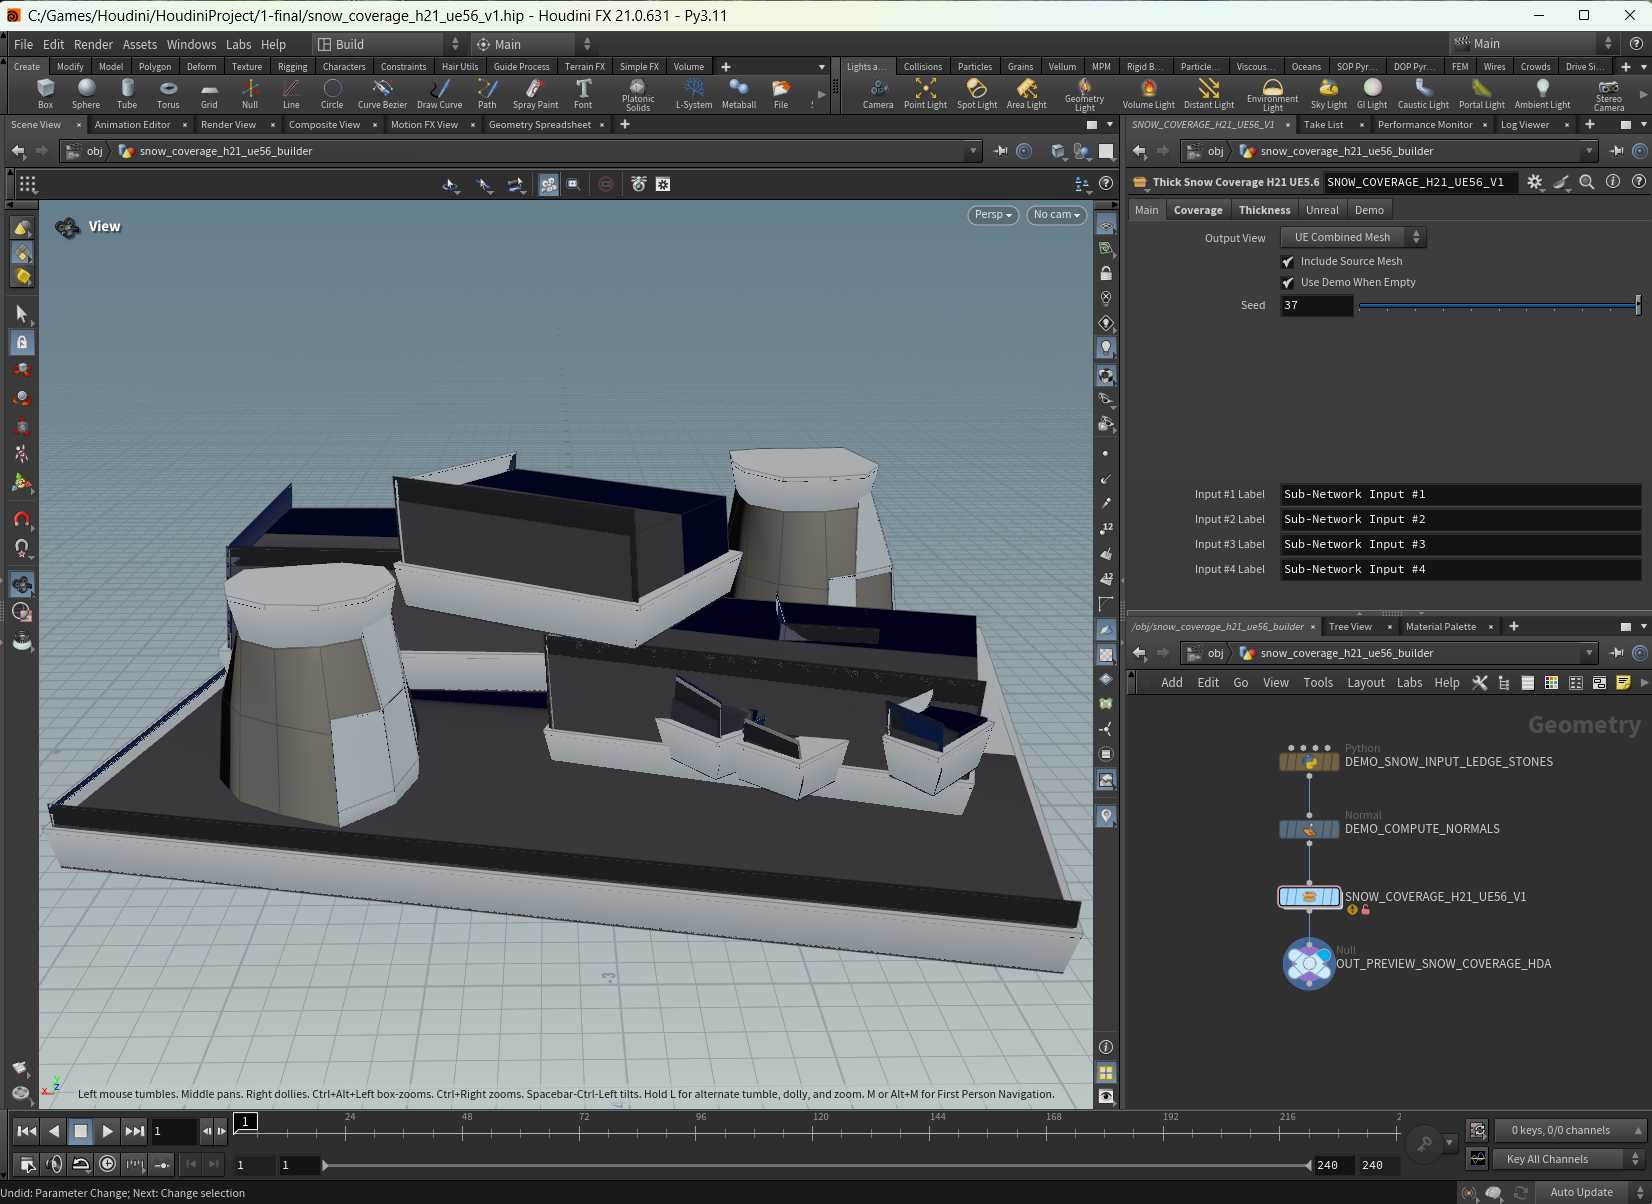
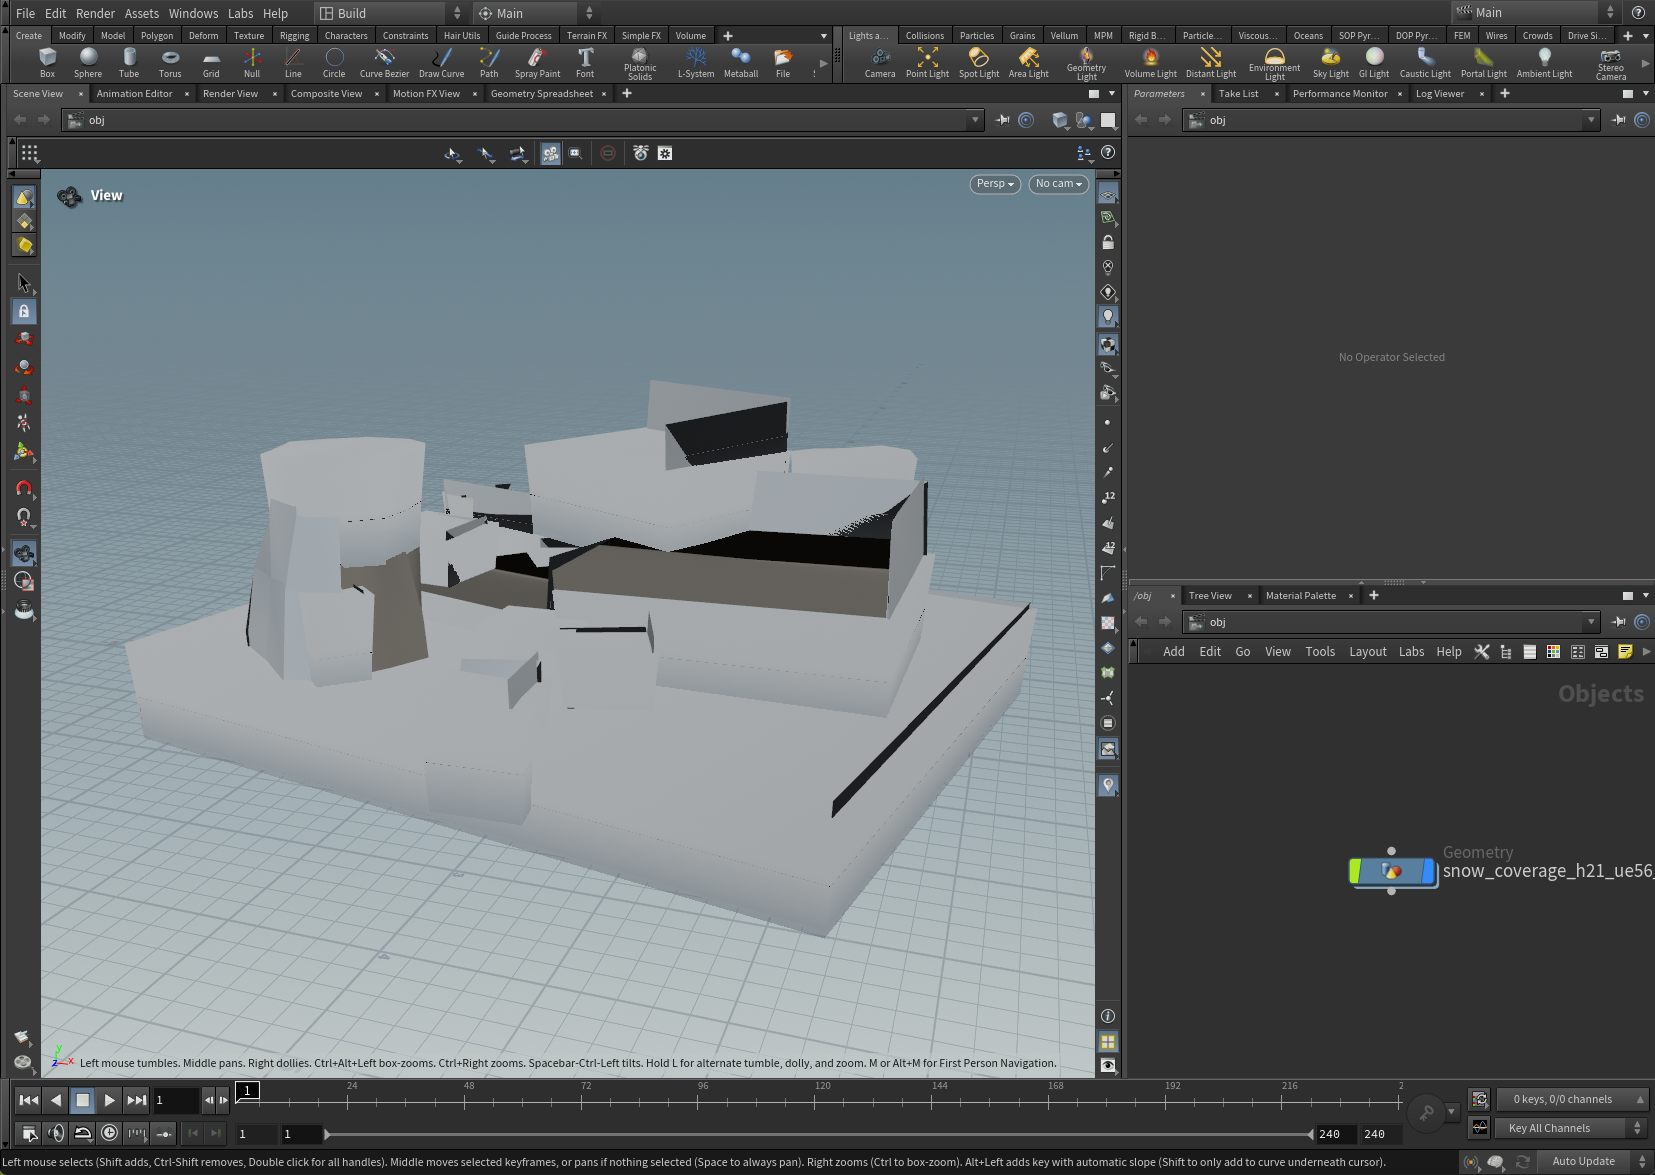
Update snow coverage v2 assets

diff --git a/src/project-data.js b/src/project-data.js
@@ -400,7 +400,7 @@ export const projects = [
     category: "Surface Treatment",
     image: "/assets/houdini/portfolio/snow-coverage.png",
     video: "/assets/houdini/videos/snow-coverage.mp4",
-    noteHref: "/assets/houdini/notes/snow_coverage_h21_ue56_v1.md",
+    noteHref: "/assets/houdini/notes/snow_coverage_h21_ue56_v2.md",
     visual: {
       label: "SURFACE COVERAGE",
       hero: "THICK SNOW / EDGE LIP",

diff --git a/public/assets/houdini/notes/snow_coverage_h21_ue56_v2.md b/public/assets/houdini/notes/snow_coverage_h21_ue56_v2.md
@@ -1,0 +1,168 @@
+# Snow Coverage H21 / UE5.6 V2
+
+## 1. 资产概览
+
+这是一个面向 Houdini 21 / UE5.6 Houdini Engine 流程的厚积雪覆盖 HDA。它读取输入 mesh，依据面法线朝向、坡度、边缘、风向和高度计算积雪覆盖 Mask，再生成具有体积感的多环积雪几何。
+
+V2 相比 V1 的主要变化是：主积雪厚度提高，并将雪层剖面拆成下层壳体、圆润肩部、顶部雪盖和边缘翻边。`Snow Thickness`、`Base Snow Depth`、`Peak Height`、`Edge Lip Height`、`Shell Depth` 和 `Profile Roundness` 可以分别控制积雪的体积和边缘形态。
+
+该场景同时保留原始输入 mesh，并将雪层写入独立的 `snow_*` 面属性和 UE 材质路径。它是静态积雪生成器，不负责 UE 中人物实时踩踏或动态脚印。
+
+## 2. 文件与要求
+
+- 场景：[snow_coverage_h21_ue56_v2.hip](snow_coverage_h21_ue56_v2.hip)
+- Houdini：`21.0.596` 生成并验证；本目录其他文档中的 `21.0.631` 是另一轮检查环境，不应混同
+- 外层网络：`/obj/snow_coverage_h21_ue56_builder`
+- HDA 节点：`/obj/snow_coverage_h21_ue56_builder/SNOW_COVERAGE_H21_UE56_V2`
+- HDA 类型：`billd::snow_coverage_h21_ue56::2.0`
+- 主输出节点：`/obj/snow_coverage_h21_ue56_builder/OUT_PREVIEW_SNOW_COVERAGE_HDA`
+- 预览图：[snow_coverage_h21_ue56_v2_preview.png](#作品集展示建议)
+- 详细验证：[snow_coverage_h21_ue56_v2_verification.json](#验证记录)
+- 外部 HDA：使用项目内版本管理的 v2 HDA；公开作品集不暴露本地安装路径。
+- UE 工程集成：可将 v2 HDA 安装到 UE5.6 Houdini Engine 可见目录，再创建 Houdini Asset Actor。
+
+HDA 定义曾随当前场景保存为 Embedded 内容。独立打开该 HIP 时，如果 Houdini 优先读取到不完整的 Embedded 定义，可能出现 `incomplete asset definition` 警告；独立 Houdini Engine 或 UE5.6 使用时，应安装上面列出的完整外部 HDA。
+
+## 3. 快速使用
+
+1. 使用 Houdini 21 打开 `snow_coverage_h21_ue56_v2.hip`。
+2. 选中 `/obj/snow_coverage_h21_ue56_builder/SNOW_COVERAGE_H21_UE56_V2`。
+3. 将真实 mesh 接入输入 0；没有输入时，场景会使用 `DEMO_SNOW_INPUT_LEDGE_STONES` 作为演示几何。
+4. 先调整 `Snow Thickness`、`Base Snow Depth` 和 `Peak Height`，再用 `Edge Lip Height`、`Shell Depth` 和 `Profile Roundness` 微调边缘体积。
+5. 在 `UE Snow Material` 中填写 UE 项目材质路径，例如 `/Game/Materials/M_Snow.M_Snow`。
+6. 使用 `Output View` 查看完整输出、仅雪层、覆盖调试、原始 mesh 或雪点输出。
+7. 在 UE5.6 中使用时，将外部 v2 HDA 安装到 Houdini Engine 可见的 HDA 路径，再创建 Houdini Asset Actor。
+
+## 4. 主要参数
+
+### 输入与覆盖
+
+- `output_view`：选择完整 mesh、仅雪层、覆盖调试、原始 mesh 或雪点输出。
+- `include_source_mesh`：是否在完整输出中保留原始输入 mesh，当前默认开启。
+- `use_demo_when_empty`：输入为空时是否使用演示几何，当前默认开启。
+- `seed`：覆盖噪声和雪层起伏的随机种子，当前为 `37`。
+- `cover_intensity` / `cover_threshold`：覆盖强度和生成阈值，当前主实例使用 `1.68 / 0.22`。
+- `slope_start` / `slope_softness` / `upward_bias`：控制朝上表面的积雪倾向。
+- `edge_buildup` / `side_crust_strength`：控制边缘堆积和侧面结壳。
+- `wind_drift_strength` / `wind_direction`：控制风向造成的积雪偏移。
+- `height_bias`：根据世界高度增加或减少积雪高度。
+
+### 厚度与剖面
+
+- `snow_thickness`：主厚度缩放项，V2 默认值为 `0.28`。
+- `base_snow_depth`：覆盖区域的基础雪层厚度，默认 `0.18`。
+- `peak_height`：顶部隆起高度，默认 `0.14`。
+- `edge_lip_height`：边缘翻边和堆积的额外高度，默认 `0.10`。
+- `shell_depth`：雪层边缘向原始表面下方形成的壳体深度，默认 `0.06`。
+- `profile_roundness`：肩部从下层壳体过渡到顶部的圆润程度，默认 `0.68`。
+- `surface_offset`：雪层与输入表面的基础间隙。
+- `lump_amplitude` / `lump_frequency`：大尺度雪堆起伏。
+- `powder_noise_frequency`：细颗粒粉雪噪声频率。
+- `overhang_amount`：边缘向外翻出的距离。
+- `min_patch_area`：过滤过小覆盖面的阈值。
+- `spawn_point_scale`：雪点输出的 `pscale` 大小。
+
+### UE 材质与演示
+
+- `snow_unreal_material`：雪层的 `unreal_material` 和 `shop_materialpath`，默认 `/Game/Materials/M_ProceduralSnow.M_ProceduralSnow`。
+- `assign_base_material` / `base_unreal_material`：是否给保留的源 mesh 写入基础材质路径。
+- `snow_clump_instance_path`：可选雪团 instancing 资源路径。
+- `snow_color` / `packed_snow_color`：松软雪和压实雪的顶点颜色。
+- `demo_seed` / `demo_scale`：无输入时的演示岩石场景随机种子和尺寸。
+
+## 5. 节点逻辑
+
+```text
+DEMO_SNOW_INPUT_LEDGE_STONES -> DEMO_COMPUTE_NORMALS
+真实输入 0 ------------------------/
+                    -> SNOW_COVERAGE_H21_UE56_V2 -> OUT_PREVIEW_SNOW_COVERAGE_HDA
+```
+
+HDA 内部的主要处理顺序为：
+
+```text
+IN_SOURCE_MESH_FROM_UE_OR_HOUDINI
+  -> CLEAN_TINY_GAPS_FOR_EDGE_MASK
+  -> COMPUTE_SOURCE_NORMALS
+  -> PY_BUILD_THICK_SNOW_COVERAGE
+  -> OUTPUT
+```
+
+`PY_BUILD_THICK_SNOW_COVERAGE` 先根据法线、坡度、边缘、风向和高度生成 `snow_mask`，再对每个满足覆盖条件的面生成三组环线：
+
+1. 下层壳体环：保持接近原始表面，并由 `shell_depth` 控制边缘下压。
+2. 肩部过渡环：由 `profile_roundness` 控制向顶部雪盖的过渡位置。
+3. 顶部雪盖环：由主厚度、基础厚度、隆起高度和边缘翻边共同决定。
+
+侧面由下层环和肩部环、肩部环和顶部环分别生成，因此输出面名会区分 `snow_cover_lower_side` 与 `snow_cover_upper_side`。
+
+## 6. 输出
+
+| 输出 | 用途 | 当前第 1 帧统计 |
+|---|---|---:|
+| `OUT_PREVIEW_SNOW_COVERAGE_HDA` | 原始 mesh、厚积雪几何和 UE 属性的统一预览 | 970 points / 723 prims / 2,931 vertices |
+
+当前输出包围盒约为 `(-3.380, -0.054, -2.992)` 到 `(3.390, 2.570, 2.989)`。
+
+面名统计如下：
+
+- `source_mesh`：130 prims
+- `snow_cover`：63 prims
+- `snow_cover_lower_side`：265 prims
+- `snow_cover_upper_side`：265 prims
+
+当前材质路径统计如下：
+
+- `/Game/Materials/M_ProceduralSnow.M_ProceduralSnow`：593 prims
+- `/Game/Materials/M_Rock_Cold.M_Rock_Cold`：130 prims
+
+## 7. 属性
+
+- 点属性：`P`、`N`、`Cd`、`Alpha`、`pscale`、`snow_mask`、`snow_thickness`、`unreal_instance`
+- 面属性：`name`、`module`、`snow_mask`、`snow_thickness`、`snow_roughness`、`shop_materialpath`、`unreal_material`
+- `name` 用于区分 `source_mesh`、`snow_cover`、`snow_cover_lower_side` 和 `snow_cover_upper_side`。
+- `snow_mask` 可用于 UE 材质中区分积雪覆盖程度。
+- `snow_thickness` 可用于 UE 材质中的雪层厚度、颜色或压实效果控制。
+- `unreal_material` 和 `shop_materialpath` 保存 UE 项目材质路径；它们不代表材质资源已经被嵌入 HIP。
+
+## 8. 动画与时间轴
+
+- 场景范围：`1-240` 帧，`24 fps`。
+- 当前保存帧：`1`。
+- 该工具是静态积雪覆盖生成器，不依赖时间轴驱动生长或动画。
+- 修改覆盖参数、厚度参数或 `seed` 后重新 cook 即可得到新的雪层。
+- 当前版本不包含 UE 人物实时脚印、动态压雪或 Render Target/RVT 脚印更新逻辑。
+
+## 9. 材质与 UE5.6
+
+- 默认雪材质：`/Game/Materials/M_ProceduralSnow.M_ProceduralSnow`
+- 默认源 mesh 材质：`/Game/Materials/M_Rock_Cold.M_Rock_Cold`
+- UE 使用时可将 `snow_unreal_material` 替换为项目已有雪材质，或替换为其他覆盖类材质。
+- 如果保留源 mesh，开启 `assign_base_material` 并填写 `base_unreal_material`，即可同时写入基础材质路径。
+- UE5.6 Houdini Engine 使用时，应安装项目内版本管理的 v2 HDA，并按项目规范配置材质路径。
+- 该 HDA 输出的是静态几何和属性；人物动态脚印建议在 UE 中使用材质、RVT、Render Target 或蓝图事件另行处理。
+
+## 10. 验证
+
+- 使用 Houdini `21.0.596` 生成并保存 v2 HIP、HDA、预览和 JSON 验证报告。
+- `snow_coverage_h21_ue56_v2.hip` 可以加载，当前输出几何可读取，外层网络无 node error。
+- 生成脚本中的独立 HDA clean-session 测试通过：`934 points / 696 prims`，无 cook error、无 cook warning。
+- 厚度探针通过：clean-session 中较薄设置最高点约为 `2.424`，较厚设置最高点约为 `2.544`，主 `Snow Thickness` 参数能够改变输出高度。
+- 当前默认输出验证为 `970 points / 723 prims`，属性和材质路径均存在。
+- 直接独立加载该 HIP 时，节点可能报告 `incomplete asset definition`；这是 Embedded 定义与外部 HDA 库未正确匹配的加载警告，不等同于输出几何为空。
+
+## 11. 已知限制与排错
+
+- 预览使用的演示 mesh 拓扑较低，因此边缘会保留多边形感；真实输入 mesh 的拓扑密度会直接影响雪层圆润度。
+- V2 只增加厚度和剖面体积，没有实现人物脚印或实时踩踏变形。
+- `snow_unreal_material` 是 UE 项目路径，材质资源不存在时 Houdini 仍可生成几何，但 UE 不会自动创建材质。
+- 若积雪过薄，先提高 `Snow Thickness`、`Base Snow Depth` 和 `Peak Height`；若边缘不明显，提高 `Edge Lip Height`、`Shell Depth` 和 `Overhang Amount`。
+- 若雪层覆盖方向错误，检查输入 mesh 的法线方向，再调整 `Slope Start`、`Slope Softness` 和 `Upward Bias`。
+- 若单独打开 HIP 出现 `incomplete asset definition`，先安装完整的 `billd_snow_coverage_h21_ue56_v2.hda`，再重新载入场景；不要只把 HIP 文件复制到另一个工程。
+- 若 UE 中只看到源 mesh，检查 Houdini Engine 是否加载了 v2 HDA，并确认 Houdini Asset Actor 的输出视图不是 `Source Only`。
+
+## 12. 版本记录
+
+- V1：基础积雪覆盖、边缘堆积、风向偏移、雪点和 UE 属性输出。
+- V2：提高默认积雪厚度，新增基础雪深、顶部隆起、边缘翻边、壳体下压和剖面圆润度；将侧面拆成下层和上层两个多环过渡面。
+- 2026-07-29：使用 Houdini `21.0.596` 重新生成、保存并验证 v2 HIP/HDA，完成预览和 UE 工程副本同步。
